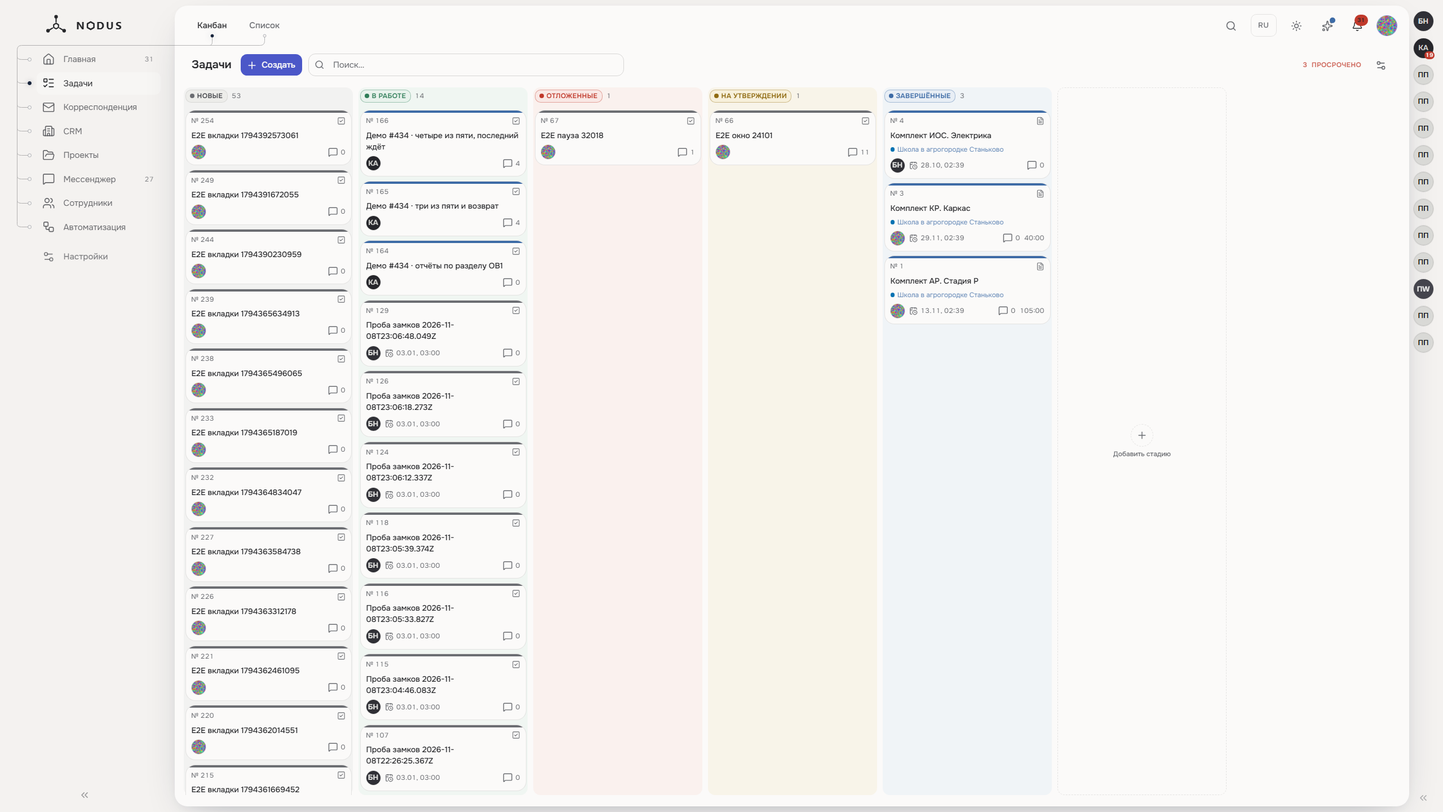
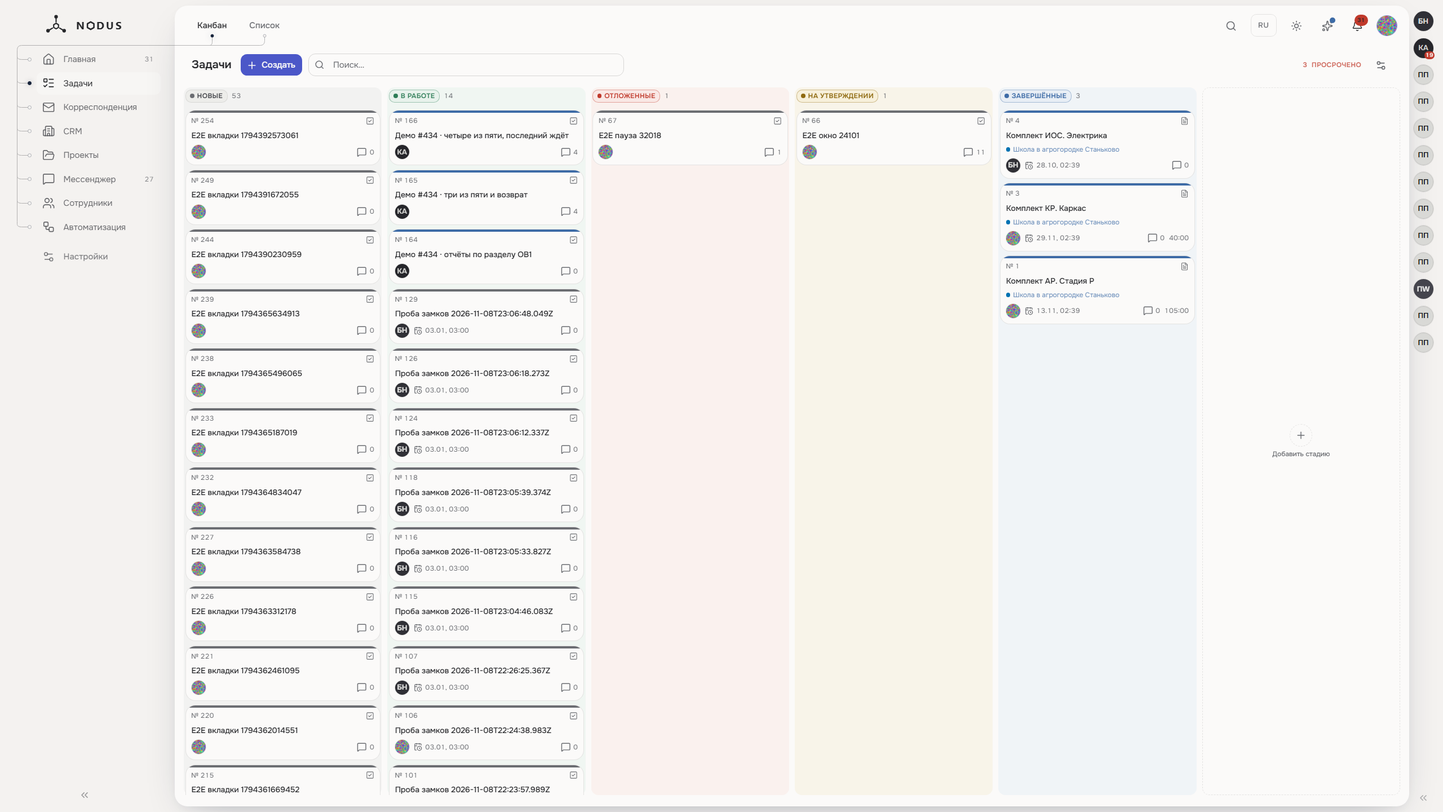
fix(web): канбан — динамическая ширина колонки 240–360px, как в Битриксе (#824)

diff --git a/apps/web/src/shared/ui/board/board-metrics.ts b/apps/web/src/shared/ui/board/board-metrics.ts
@@ -5,30 +5,35 @@
  * (`BoardScroller`, `BoardColumn`, `KanbanSkeleton`, `TaskStageCreate`) —
  * геометрия чинится в одном месте, доски не расходятся.
  *
- * Ширина плитки — ПОЛОСА, как у Битрикса/Trello (minmax-паттерн, MDN
- * «repeat(auto-fill, minmax())»): плитка делит ряд поровну, но не уже
- * 12rem (240) и не шире 15rem (300 экранных px при `--ui-scale: 1.25`,
- * корень 20px). Пока честная доля внутри полосы — ряд заполнен без пустого
- * места; выше потолка — плитки держат 300px, а лишняя ширина уходит под
- * следующий столбец; ниже пола — ряд переполняется и включается
- * горизонтальный edge-scroll (#366), а не сжатие.
+ * Ширина плитки ДИНАМИЧЕСКАЯ, как в Битриксе (замер владельца 12.11.2026 по
+ * двум скриншотам доски из 8 стадий): колонка тянется вместе с окном —
+ * 259px в узком окне 2248 и 369px в развёрнутом на 3439 (шаг 268/378, зазор
+ * ~9). Когда места не хватает до минимума — колонки не сжимаются, а уходят
+ * в горизонтальный скролл. Отсюда ПОЛОСА (minmax-паттерн, MDN
+ * «repeat(auto-fill, minmax())»): плитка делит ряд поровну, но не уже 12rem
+ * (240) и не шире 18rem (360 экранных px при `--ui-scale: 1.25`, корень 20px).
+ * Пока честная доля внутри полосы — ряд заполнен без пустого места; выше
+ * потолка — плитки держат 360 (шире битриксового max не раздуваем); ниже пола
+ * — ряд переполняется и включается edge-scroll (#366), а не сжатие.
  *
  * Арифметика на опорных экранах (бюджет ряда: рейка 15rem + зазор 0.5rem +
  * правая полоса 2.5rem + зазор 0.5rem = 18.5rem; минус внешние отступы
  * 2 × 0.8rem; минус промежутки 0.5rem — те же числа, что в классах):
  * - Full HD 1920×1080 → ряд 77.5rem, контент 75.9rem: 6 плиток — доля
- *   12.23rem (244px) внутри полосы → ровно 6 заполняют ряд, как в Битриксе;
+ *   12.23rem (244px) внутри полосы → ровно 6 заполняют ряд (у Битрикса при
+ *   окне 2248 — 259, у нас рейка шире на ~10px, поэтому низ 240);
  *   7-я — доля 10.4rem ниже пола → прокрутка.
- * - 2560×1440 → контент 107.9rem: 6 плиток — доля 17.6rem выше потолка →
- *   по 300px и ~276px воздуха справа; 7 — 15.0rem заполняют ряд; 8 — 13.05rem
- *   (261px) заполняют ряд; 9 — доля 11.5rem ниже пола → прокрутка. То есть
- *   на 2560 влезает ровно 8 столбцов — как в Битриксе (проверка владельца
- *   12.11.2026 по скриншоту: у него колонка ~285–290px при рейке ~220).
+ * - 2560×1440 → контент 107.9rem: 6 плиток — доля 17.6rem (351px) внутри
+ *   полосы → тянутся и заполняют ряд; 8 плиток — 13.05rem (261px) заполняют;
+ *   9 — 11.5rem ниже пола → прокрутка. Влезает ровно 8 столбцов.
+ * - 3440×1440 → контент 151.9rem: 6 плиток — доля 25.1rem выше потолка →
+ *   по 360px (потолок, как битриксовый max 369); 8 — 18.1rem выше потолка →
+ *   по 360px (ряд почти полон); 12 — 12.2rem заполняют; 13 — ниже пола.
  *
  * Почему не бесконечная резина (баг приёмки #824: `flex-1 basis-0` без
- * потолка): на широком мониторе шесть колонок раздувались до 350–360px —
- * «ужасно широкие». Потолок 300 = ширина колонки Битрикса; пол 240 =
- * читаемая ширина карточки без сжатия.
+ * потолка): на ultrawide 3440 шесть колонок раздувались до ~500px —
+ * «ужасно широкие». Потолок 360 = битриксовый max (369), пол 240 = «6 плиток
+ * на Full HD» и читаемая карточка без сжатия.
  *
  * Значения — в rem: масштаб интерфейса двигает плитку и зазоры вместе (при
  * `--ui-scale: 1.25` они дают 10 / 16 экранных px). Типографика по канону —
@@ -50,13 +55,14 @@ export const BOARD_COLUMN_GROW_CLASS = 'flex-1 basis-0';
 export const BOARD_COLUMN_MIN_CLASS = 'min-w-[12rem]';
 
 /**
- * Потолок ширины плитки: 15rem = 300 экранных px — ширина колонки Битрикса
- * (замер владельца 12.11.2026). Выше потолка ряд не раздувает 6 колонок на
- * широком мониторе; свободное место уходит под 7-й/8-й столбцы.
+ * Потолок ширины плитки: 18rem = 360 экранных px — битриксовый max 369
+ * (замер владельца 12.11.2026: развёрнутое окно 3439 → колонка 369). Выше
+ * потолка колонки не раздуваются на ultrawide; свободное место уходит под
+ * следующие столбцы.
  */
-export const BOARD_COLUMN_MAX_CLASS = 'max-w-[15rem]';
+export const BOARD_COLUMN_MAX_CLASS = 'max-w-[18rem]';
 
-/** Класс плитки: тянется по ряду в полосе 240–300px. */
+/** Класс плитки: тянется по ряду в полосе 240–360px. */
 export const BOARD_COLUMN_CLASS = `${BOARD_COLUMN_GROW_CLASS} ${BOARD_COLUMN_MIN_CLASS} ${BOARD_COLUMN_MAX_CLASS}`;
 
 /** Промежуток между плитками: 0.5rem = 10 экранных px (было 1.25rem/gap-5 = 25). */

diff --git a/apps/web/src/shared/ui/board/board-metrics.test.tsx b/apps/web/src/shared/ui/board/board-metrics.test.tsx
@@ -21,10 +21,11 @@ import { KanbanSkeleton } from './kanban-skeleton.js';
 
 /**
  * Геометрия канбан-доски (#730, исправление #824): ширина плитки — ПОЛОСА
- * 240–300px (minmax-паттерн, как у Битрикса/Trello). Плитка делит ряд
- * поровну, пока доля внутри полосы: на Full HD (1920×1080, развёрнутое меню,
- * корень 20px) 6 плиток заполняют ряд (по ~244px), на 2560 — 8 плиток
- * (~261px); 6 плиток на 2560 держат потолок 300px и не раздуваются; ниже пола
+ * 240–360px, динамическая, как в Битриксе (замер владельца 12.11.2026: колонка
+ * 259px в окне 2248 и 369px в развёрнутом на 3439). Плитка делит ряд поровну,
+ * пока доля внутри полосы: на Full HD 6 плиток заполняют ряд (≈244px), на
+ * 2560 шесть плиток тянутся до ≈351px, восемь делят ряд (≈261px); на ultrawide
+ * 3440 шесть упираются в потолок 360 (не «ужасно широкие»); ниже пола
  * включается горизонтальная прокрутка. Тест держит формулу и следит, чтобы
  * доска, «Добавить стадию» и скелетон брали геометрию из ОДНОГО места.
  */
@@ -91,15 +92,16 @@ afterEach(() => {
   vi.unstubAllGlobals();
 });
 
-describe('board-metrics: полоса ширины 240–300px (#824)', () => {
+describe('board-metrics: полоса ширины 240–360px (#824)', () => {
   it('плитка тянется по ряду, но в полосе min/max — не резина без потолка', () => {
     expect(BOARD_COLUMN_GROW_CLASS).toContain('flex-1');
     expect(BOARD_COLUMN_GROW_CLASS).toContain('basis-0');
     expect(BOARD_COLUMN_MIN_CLASS).toBe('min-w-[12rem]');
-    expect(BOARD_COLUMN_MAX_CLASS).toBe('max-w-[15rem]');
-    // Полоса в экранных px при корне 20px: 240–300 — ширина колонки Битрикса.
+    expect(BOARD_COLUMN_MAX_CLASS).toBe('max-w-[18rem]');
+    // Полоса в экранных px при корне 20px: 240–360 — битриксовый диапазон
+    // (min 259 / max 369 по замерам владельца 12.11.2026).
     expect(boundRem(BOARD_COLUMN_CLASS, 'min-w') * 20).toBe(240);
-    expect(boundRem(BOARD_COLUMN_CLASS, 'max-w') * 20).toBe(300);
+    expect(boundRem(BOARD_COLUMN_CLASS, 'max-w') * 20).toBe(360);
     // Жёсткой ширины (w-[…], shrink-0 + фикс) больше нет: это был баг #824 —
     // на 2560 колонки застывали узкими, когда места хватало на 8.
     expect(BOARD_COLUMN_CLASS).not.toMatch(/(?:^|\s)w-\[/);
@@ -129,14 +131,27 @@ describe('board-metrics: полоса ширины 240–300px (#824)', () => {
     expect(rowUsageRem(9, content)).toBeGreaterThan(rowRem(2560));
   });
 
-  it('2560 с шестью плитками: потолок 300px, колонки не раздуваются', () => {
+  it('2560 с шестью плитками: тянутся (≈351px) и заполняют ряд — ширина динамическая', () => {
     const content = contentRem(2560);
-    // Честная доля 6 плиток на 2560 — ~351px (прежнее «ужасно широко»),
-    // поэтому ширина упирается в потолок.
+    // Битрикс на широком окне тянет колонки (min 259 → max 369): у нас доля
+    // 6 плиток ≈351px внутри полосы, поэтому ряд заполняется, а не застывает.
+    expect(fairShareRem(6, content)).toBeGreaterThan(boundRem(BOARD_COLUMN_CLASS, 'min-w'));
+    expect(fairShareRem(6, content)).toBeLessThan(boundRem(BOARD_COLUMN_CLASS, 'max-w'));
+    expect(rowUsageRem(6, content)).toBeCloseTo(rowRem(2560), 5);
+  });
+
+  it('3440: шесть плиток упираются в потолок 360 — не «ужасно широкие»', () => {
+    const content = contentRem(3440);
+    // Честная доля 6 плиток на ultrawide — ~500px (прежний баг); потолок
+    // держит ширину на битриксовом max, ряд не раздут.
     expect(fairShareRem(6, content)).toBeGreaterThan(boundRem(BOARD_COLUMN_CLASS, 'max-w'));
     expect(widthRem(6, content)).toBe(boundRem(BOARD_COLUMN_CLASS, 'max-w'));
-    // Свободное место остаётся (уйдёт под 7-й/8-й столбцы), но ряд не растянут.
-    expect(rowUsageRem(6, content)).toBeLessThan(rowRem(2560));
+    expect(rowUsageRem(6, content)).toBeLessThan(rowRem(3440));
+    // Восемь плиток на 3440 — тоже потолок, но ряд почти полон; двенадцать
+    // влезают и делят ряд, тринадцатая — прокрутка.
+    expect(rowUsageRem(8, content)).toBeGreaterThan(rowRem(3440) * 0.95);
+    expect(rowUsageRem(12, content)).toBeCloseTo(rowRem(3440), 5);
+    expect(rowUsageRem(13, content)).toBeGreaterThan(rowRem(3440));
   });
 
   it('промежуток 8–12 px, внешние отступы 16 px', () => {

diff --git a/apps/web/src/features/tasks/components/task-stage-create.tsx b/apps/web/src/features/tasks/components/task-stage-create.tsx
@@ -11,7 +11,7 @@ import { stageColorOrder, stageTone } from '../../../shared/ui/board/stage-tone.
 /**
  * Контур плитки «Добавить стадию» — outline со смещением ВНУТРЬ, а не border:
  * отступы и пунктир живут внутренним блоком, сама плитка несёт только общий
- * `BOARD_COLUMN_CLASS` с полосой ширины 240–300px (#824) — контур не участвует
+ * `BOARD_COLUMN_CLASS` с полосой ширины 240–360px (#824) — контур не участвует
  * в раскладке и не отнимает ширину у содержимого. История (#730): при
  * flex-basis border+padding добавлялись сверх доли, и плитка выходила на 22px
  * шире колонки (замер владельца на :4173: колонки 241px, плитка 263px).
@@ -25,7 +25,7 @@ const TILE_ICON_BUTTON_CLASS =
 
 /** Создание личной колонки «Моего плана» — ПЛИТКА доски, а не пилюля
  *  (уточнение владельца 10.11.2026): та же ширина и высота, что у колонок
- *  стадий (`BOARD_COLUMN_CLASS` — полоса 240–300px, #824), пунктирный контур,
+ *  стадий (`BOARD_COLUMN_CLASS` — полоса 240–360px, #824), пунктирный контур,
  *  содержимое по центру ВНУТРЕННИМ блоком (плитка сама не несёт
  *  padding/border). Она занимает шестое место в ряду — поэтому на опорном
  *  Full HD при 5 стадиях ряд заполнен ровно (6 плиток), а при 6+ включается

diff --git a/.agents/skills/nodus-ui-style/SKILL.md b/.agents/skills/nodus-ui-style/SKILL.md
@@ -46,7 +46,7 @@ description: "Канон UI Nodus — тема «Инструмент» (node-ba
 - **Оверлей со списком-пикером (диалог выбора, поповер с фильтром/поиском) — ФИКСИРОВАННАЯ высота зоны списка:** контейнер НЕ меняет габарит при фильтрации, поиске и смене шага — список занимает зарезервированную высоту (`flex-1 min-h-0` внутри диалога фикс-высоты либо явное `h-*`), пустой результат — заглушка ВНУТРИ той же высоты (research 24.09: wix/react-native-ui-lib#3493 — «make it take the entire height that is left so this way the height will not change when the content changes so theres no jump»; primeng#17372 — прыжки панели при фильтре признаны багом; вердикт владельца 24.09: «окно не должно прыгать туда-сюда»). Прыгающий по данным габарит окна = баг.
 - **Выдвижные поверхности — ВСЕГДА плавно, включая ПЕРВОЕ открытие после перезагрузки страницы (закон; баг-вердикты владельца 15.09.2026 — панель беседы, навигатор ветки, окно треда; механика — gotchas):** обёртка панели/окна монтируется СРАЗУ и ПОСТОЯННО в покое (`w-0`/translate) — открытие = flip состояния СУЩЕСТВУЮЩЕГО элемента, transition идёт с первого кадра даже после Ctrl+R; НЕ монтировать обёртку в момент открытия: свежий элемент рождается в целевом состоянии, before-состояния нет — transition пропускается (рывок ровно один раз, потом «само чинится»); контент — лениво на первом открытии и далее остаётся (скролл/фокус не теряются, маунт данных не платит в кадрах анимации); когда обёртку держать нельзя — `shared/ui/use-frame-ready.ts` (double rAF), одноразовые mount-анимации (тосты, диалоги) — CSS `@starting-style` (Baseline 2024). Применено везде: панель беседы (все хосты), «О задаче», окно треда (канал в мессенджере и карточке проекта — один компонент), навигатор ветки. Новая выдвижная поверхность — обязательная проба: первое открытие после Ctrl+R, замер ширины покадрово.
 - **Холст схем (#378 ред. 2, ADR-0022 — рефы Jira workflow editor / Яндекс Трекер; полный канон — `references/flow-canvas.md`):** свободная слоевая авторасстановка (`shared/flow/route-layout.ts`) БЕЗ колонок-контейнеров; РАСКЛАДКА ОБЩАЯ И НА СЕРВЕРЕ (`workflows.layout`: позиции, точки стрелок, доля подписи, глубина обхода, место метки «Любой статус») — «что видишь — то и стоит»: первая правка фиксирует видимую картинку целиком, дальше двигается только то, что тащат (чужие статусы, точки и стрелки не перестраиваются; авторасстановка — только «Упорядочить»); расстановка — оформление, сохраняется САМА без новой версии (`PUT .../layout`), черновик/публикация — только структура маршрута. Узел статуса 208×52; 12 точек подключения (Loose, переподключение концов) — занятые кружки видны всегда (стрелка упирается в кружок), свободные в правке приглушены; наконечники — свои SVG-маркеры (`userSpaceOnUse`, токен `--edge-solid`), встроенный ArrowClosed запрещён; подпись кнопки — чип НА СВОЕЙ стрелке в доле t, тянется вдоль, ставится без наезда на узлы и подписи; слой подписей над всеми линиями (выделенное ребро — последним в массиве, НЕ z-index'ом); «из любого статуса» — переключатель в панели статуса + пилюля «Любой статус» со стрелкой; старт «Создание задачи» на линии центра начального. Окно редактора — сплит как мессенджер: бар h-14 с линией, правая панель — полновысотная колонка (шапка продолжает линию бара), выезжает и СУЖАЕТ холст; вписывание один раз — граф не дёргается. Масштаб и отмена (классические стрелки) — слева внизу, атрибуция — справа внизу с отступом.
-- **Личный канбан «Канбан» — личная ось стадий (ADR-0008):** колонки = стадии личной схемы пользователя (не глобальной!); шапка — цветной чип стадии (`shared/ui/board/stage-tone.ts`: палитра neutral/info/success/warning/danger/violet/teal/orange/pink/cyan на токенах темы) + счётчик + «+» быстрого создания задачи в колонку (инлайн-инпут в топе колонки) + меню «⋯» (переименовать inline / цвет / удалить — единственную нельзя, задачи переезжают в первую колонку того же состояния); создание стадии — КОМПАКТНАЯ инлайн-форма в конце ряда («точка цвета + название», Enter/Esc — референс ClickUp «Add group»; никаких больших панелей настроек); тело колонки — читаемая пастель тона (`bg-*-soft/40`, вердикт владельца). Привязка колонки к системному состоянию живёт в МОДЕЛИ (контракты/моки готовы к workflow-схемам), в UI до MVP не спрашивается (вердикт владельца: автоматизация — после MVP, через редактор схем). DnD по личной оси (`personalAxis` в kanban-board.ts), персист `personalStageId`. **Механика доски — ЕДИНЫЙ движок `shared/ui/board/use-kanban-board.ts` + `KanbanSkeleton` + ряд колонок `BoardScroller` (прокрутка подводом к краю, drag-to-pan, autoScroll только доски — #366) (аудит #45):** борд-состояние, фиды колонок через React Query (`tasksKeys.kanban(scope)`, инвалидации мутаций переносят доску), sentinel-подгрузка, dnd-жизнь (живая сортировка, анти-осциллятор, Esc-откат снапшотом); фича — колонка/карточка/конфиг оси/фида/мутаций и экстры (CRUD колонок, quick-add, countDelta). 6-й модуль с доской = конфиг движка, не копия. **Плотность доски (#730, вердикт владельца 10.11.2026): узкий вид ЕДИНСТВЕННЫЙ — переключателя «Компактно/Просторно» нет и не будет.** Геометрия — `shared/ui/board/board-metrics.ts` (ширина плитки — ПОЛОСА 240–300px, minmax-паттерн MDN/Трелло: `flex-1 basis-0 min-w-[12rem] max-w-[15rem]`, при масштабе 1.25 это 240–300 экранных px; промежуток 0.5rem = 10 экранных px, внешние отступы 0.8rem = 16): плитка делит ряд поровну, пока доля внутри полосы — на Full HD 1920×1080 с развёрнутым левым меню 6 плиток заполняют ряд ровно (≈244px), на 2560 влезают 8 (≈261px); выше потолка колонки не раздуваются (6 плиток на 2560 — по 300px, как ширина колонки Битрикса), ниже пола не сжимаются — включается горизонтальный edge-scroll #366 (баг #824: резина без потолка давала «шесть ужасно широких» колонок). **«Добавить стадию» — такая же плитка ряда** (пунктир, содержимое по центру), а не пилюля: она и есть шестая. Карточка — одна мета-строка внизу (исполнитель · срок · приоритет, справа обсуждение и время), название максимум в две строки, «Без срока» и обычный приоритет в узкой колонке не печатаются.
+- **Личный канбан «Канбан» — личная ось стадий (ADR-0008):** колонки = стадии личной схемы пользователя (не глобальной!); шапка — цветной чип стадии (`shared/ui/board/stage-tone.ts`: палитра neutral/info/success/warning/danger/violet/teal/orange/pink/cyan на токенах темы) + счётчик + «+» быстрого создания задачи в колонку (инлайн-инпут в топе колонки) + меню «⋯» (переименовать inline / цвет / удалить — единственную нельзя, задачи переезжают в первую колонку того же состояния); создание стадии — КОМПАКТНАЯ инлайн-форма в конце ряда («точка цвета + название», Enter/Esc — референс ClickUp «Add group»; никаких больших панелей настроек); тело колонки — читаемая пастель тона (`bg-*-soft/40`, вердикт владельца). Привязка колонки к системному состоянию живёт в МОДЕЛИ (контракты/моки готовы к workflow-схемам), в UI до MVP не спрашивается (вердикт владельца: автоматизация — после MVP, через редактор схем). DnD по личной оси (`personalAxis` в kanban-board.ts), персист `personalStageId`. **Механика доски — ЕДИНЫЙ движок `shared/ui/board/use-kanban-board.ts` + `KanbanSkeleton` + ряд колонок `BoardScroller` (прокрутка подводом к краю, drag-to-pan, autoScroll только доски — #366) (аудит #45):** борд-состояние, фиды колонок через React Query (`tasksKeys.kanban(scope)`, инвалидации мутаций переносят доску), sentinel-подгрузка, dnd-жизнь (живая сортировка, анти-осциллятор, Esc-откат снапшотом); фича — колонка/карточка/конфиг оси/фида/мутаций и экстры (CRUD колонок, quick-add, countDelta). 6-й модуль с доской = конфиг движка, не копия. **Плотность доски (#730, вердикт владельца 10.11.2026): узкий вид ЕДИНСТВЕННЫЙ — переключателя «Компактно/Просторно» нет и не будет.** Геометрия — `shared/ui/board/board-metrics.ts` (ширина плитки ДИНАМИЧЕСКАЯ, полоса 240–360px — как в Битриксе: колонка 259px в узком окне и 369px в развёрнутом на 3440, замер владельца 12.11.2026; `flex-1 basis-0 min-w-[12rem] max-w-[18rem]`, при масштабе 1.25 это 240–360 экранных px; промежуток 0.5rem = 10 экранных px, внешние отступы 0.8rem = 16): плитка делит ряд поровну, пока доля внутри полосы — на Full HD 1920×1080 с развёрнутым левым меню 6 плиток заполняют ряд ровно (≈244px), на 2560 шесть тянутся до ≈351px и восемь делят ряд (≈261px, влезает ровно 8), на ultrawide 3440 шесть упираются в потолок 360 (прежняя резина без потолка раздувала их до ≈500 — баг #824), ниже пола не сжимаются — включается горизонтальный edge-scroll #366. **«Добавить стадию» — такая же плитка ряда** (пунктир, содержимое по центру), а не пилюля: она и есть шестая. Карточка — одна мета-строка внизу (исполнитель · срок · приоритет, справа обсуждение и время), название максимум в две строки, «Без срока» и обычный приоритет в узкой колонке не печатаются.
 - **Законы чата (вердикт владельца, раунд 3; геометрия панелей — Битрикс24, вердикт 15.09.2026):** где чат — там ПРАВАЯ панель с файлами/ссылками беседы (`shared/chat/chat-side-panel.tsx`): панель — ПОЛНОВЫСОТНАЯ колонка-сиблинг, занимающая ВЕРХНИЙ БАР хоста тоже; её верхняя строка (высотой в бар хоста, `headerClass`: мессенджер — default h-14, сотрудник h-10, проект h-10, задача h-10 (полоса вкладок правой зоны после редизайна 04.11.2026)) = название СЛЕВА («О чате»/«О канале»/«О проекте») + крестик У КРАЯ справа, border-b продолжает линию бара, внутренних перегородок нет; тоггл (`ChatPanelToggle`) остаётся в баре хоста и при открытии уезжает влево; ПЕРВОЕ открытие панели — ПЛАВНОЕ: обёртка монтируется СРАЗУ и ПОСТОЯННО (`w-0`), класс раскрытия — ПОСЛЕ двух кадров (`use-frame-ready`, иначе рывок свежего элемента — баг-вердикт 15.09.2026, gotchas), контент — ЛЕНИВО на первом открытии и далее остаётся (приём обёртки «О задаче»: первый тоггл не платит маунтом панели/данных в кадрах width-анимации — «дёргается ровно один раз», баг-вердикт 15.09.2026; левая зона стабильна покадрово); панель занимает ширину ЗА СЧЁТ ЧАТА (чат сужается на её ширину — левая зона НЕ двигается, сотрудник тоже, вердикт 15.09.2026; easing у width-анимаций панели и чата ОДИН — иначе сумма плывёт и зона осциллирует); ШАПКИ У САМОГО ЧАТА НЕТ (никаких «чёрных областей» с названием канала/именем собеседника — вердикт); ПРАВИЛО ОДНОГО ПРОХОДА: смена геометрии панелей/композеров применяется ВСЕМ хостам одновременно — мессенджер, карточки сотрудника/проекта/задачи (урок 15.09.2026: «О задаче» забыли — владелец: «у нас всё должно изменяться одновременно»); лента ≥ 360px при открытой панели — минимум `MIN_FEED_WITH_PANEL`; при открытом ОКНЕ ТРЕДА минимум ленты 320 (`MIN_FEED_W`, #42), при панели и окне одновременно пол ленты 320; колонка ≥ 660 (`MIN_COLUMN_WITH_PANEL`) — тогда выталкивает левую зону; действия над сообщением — КОНТЕКСТНОЕ МЕНЮ ТОЛЬКО по правому клику (`shared/chat/message-menu.tsx` на Radix ContextMenu: меню у курсора, кламп в viewport примитивом; реестр-заготовка под бэкенд; «Редактировать»/«Удалить» — только свои; кнопок «⋯» на сообщении НЕТ); пустые состояния — канонический `Empty` (пунктирных рамок нет; drop-зона канбана — исключение, affordance переноса); перегородка чата в карточках тянется мышью С ПАМЯТЬЮ (`shared/ui/use-chat-width.ts` — единая память на все карточки `nodus-card-chat-w-v2`, дефолт 680px, MIN_W 420, при открытой панели «О задаче» или навигаторе ветки пол чата карточки задачи 280 = `MIN_CHAT_WITH_PANEL`; drag императивный — gotchas); ленты сообщений — СЕРИЯМИ одного автора (`shared/chat/message-groups.ts`, разрыв только по смене автора/дня): имя — чужое и только первое в серии (в личных имён нет), ПОЛУЖИРНОЕ и персонального цвета автора (`personTone(id)`, палитра `--name-1..7`, #180 — единый тон во всех хостах: пузырь/пост/надгробие), аватар — один на серию, у ПОСЛЕДНЕГО, и он ЛИПКИЙ (#164, вердикт 30.09): серия — grid «колонка аватара + пузыри» общей компонентой `shared/chat/message-run.tsx` (лента беседы, окно треда, обсуждение задачи), аватар — отдельный sticky-элемент серии (`grid-row: 1/N+1, align-self: end, position: sticky; bottom-8px`) — при прокрутке высокой серии/простыни прижат к нижней кромке ленты над композером, у конца серии — обычное место; чистый CSS без JS-замеров (антипример coder#27673); аватар у КАЖДОЙ серии — свои и чужие (баг-урок 30.09 «моя аватарка пропала»), «По обе стороны» — своя серия зеркалится; будущая виртуализация ленты — только оконная на распорках (react-virtuoso-стиль): absolute-строки (react-window) ломают grid-поток и sticky; колонка аватара зарезервирована всегда, пузыри серии на одной вертикали, ритм 2px внутри серии / 12px между (чаты; посты канала — 6px внутри серии: `spacing="feed"` в message-run.tsx, вердикт 01.10 #175), дата-чип при смене дня; пузыри чата БЕЗ рамки (вариант `card` Bubble-примитива на токенах `bubble-in`/`bubble-out`, канон Telegram #127: контур ступенью тона поверх chat-zone); мета-строка (глиф пина у закреплённых, «изменено», время с галочками sent/read у своих) — ПОД текстом мелким кеглем, ПРИЖАТА СПРАВА облака, реакции — слева в той же строке (модель Telegram; вердикт 24.09: время НЕ сбоку текста, а снизу справа; «изменено» и пин не расширяют пузырь; реакции — нижний левый угол, задел линии реакций); тон меты — по ПОВЕРХНОСТИ (#127): на залитом своём пузыре `bubble-out-accent` (в тон заливке, как время/галочки Telegram), на чужом пузыре и карточке поста — `muted-foreground`; вложения — ВНУТРЬ пузыря (расширяют высоту); хвостик у последнего пузыря серии — ОДНА заливка SVG (`shared/chat/bubble-tail.tsx`): силуэт сам несёт вогнутую кромку и закруглённый носик к низу аватарки; АНТИПРИМЕР: CSS-бордюр пузыря + SVG-обводка хвоста — разный антиалиасинг двух движков рисования = «полутонкие линии», расдвоенные кончики и швы на стыке (разбор вердиктов 14.09.2026); композер автофокусится при входе в чат (autoFocus, ремоунт по conversationId); вложения — грамматика Битрикс24 (`shared/chat/attachments.tsx`): схема `messageAttachment` с `kind`/`url`/`thumbnailUrl`/`width`/`height` (задел под загрузку в MinIO и лайтбокс), порядок в пузыре и посте СВЕРХУ: галерея изображений (`attachment-gallery.tsx`: 1 — крупное, 2–3 — ряд равновысотных плиток, 4+ — ряды по 3; бокс резервируется по width/height — лента без сдвига; `onOpen` — точка будущего лайтбокса) → чипы файлов (`attachment-file.tsx` на примитиве `Attachment` surface=flat: лежат НА тоне поверхности пузыря/поста БЕЗ собственной заливки, цветная иконка типа `FileTypeIcon` (токены `--file-*`, референс Битрикс24), имя, размер, скачивание; тон вторичного текста — от `messageSurface`; #144, вердикт владельца 29.09.2026 «как в Битриксе») → текст → нижняя строка; ОКНО ОТПРАВКИ ВЛОЖЕНИЙ (`attach-send-dialog.tsx` — глобальный dialog-хост, #144; референсы Telegram/Bitrix): ЛЮБОЕ прикрепление (скрепка/drop/paste) открывает окно «Выбрано: N файл(а/ов)» — строки с drag-точками сортировки (СВОЙ pointer-drag без dnd-kit: PointerSensor dnd-kit гасит каретку полей на время drag — убивал супер-курсор подписи), превью картинки/иконкой типа, именем, размером, крестиком удаления, прогрессом загрузки и повтором при ошибке; крестик окна ВЕРХНЕГО угла НЕ ставится (отмена — кнопкой «Отмена», вердикт 29.09); «Добавить» — ещё файлы; подпись — ОТДЕЛЬНОЕ поле окна (стор `useAttachSendDialog.caption`, канон Telegram, вердикт 29.09.2026: при открытии текст композера переезжает в подпись и НЕ дублируется онлайн в чат; отмена — подпись возвращается в композер и штатно становится черновиком; отправка — уходит текстом сообщения; Enter отправляет, Shift/Ctrl+Enter — перенос, как в композере); футер БЕЗ разделителей: «Добавить»/«Отмена»/«Отправить» (отправка — через реестр submit-функций хостов `submit-registry.ts` — оптимистичность/reply/threadRootId не дублируются); «Отправить» заблокирована, пока есть загрузки/ошибки; инвариант: draft.attachments непуст ⟺ окно открыто (трей у строки ввода УШЁЛ); супер-курсор: при открытии фокус на подписи, каретка живёт в подписи всё время (blur в никуда/на кнопки окна — возврат, гард `composer-focus.stealFocus` не пускает композер), после закрытия — возврат в композер; drag-сортировка — ЖИВОЙ реордер (порядок меняется в DOM во время drag, без transform и autoScroll — фантомного скролла нет), тянущая строка — мягкий тон БЕЗ рамки; превью картинок в лайтбоксе поверх окна, Esc гасит только лайтбокс; карточка поста канала: посты сериями одного автора/дня КАК В ЧАТАХ — аватар один на серию (run-grid слева, липкий), имя — у первого ЧУЖОГО поста серии, свои посты БЕЗ имени (канон чатов, #180), у остальных — sr-only; полоса «N ответов»+«Обсудить» у КАЖДОГО поста (пост самостоятельный тред), вложения выше текста, реакции+время строкой (#164; надгробие с живым тредом — строка «Сообщение удалено» + полоса «Обсудить», правило #163); имя цитируемого в ответах/пересылках/баре композера — ТОТ ЖЕ персональный цвет автора (#180); плотность #181: поля пузыря/карточки ЕДИНЫЕ 10px (заменяет канон #96 «6px над именем»), имя→контент 2px, межстрочный текста leading-snug (1.375, единая точка MessageText), строки пузыря чата gap 2px; поля пузырей И карточек постов — ЕДИНЫЕ 10px по периметру (px-2.5=pt-2.5, серия вердиктов 01.10 #181: 6 — мало, 12 — огромно, единообразие), лента постов — общий с чатами MessageScroller-стек (стрелка «вниз», автодогон чужих, pre-paint компенсация реакций; #175); «вечный курсор» композера (`composer-focus.ts`, канон Телеграм, вердикт 14.09.2026): пока открыт чат/канал/тред — каретка в его композере, обычные клики по UI возвращают её (исключения: клавиатурная навигация, выделение текста и ОТКРЫТЫЙ ОВЕРЛЕЙ-СЛОЙ — диалог/поповер/меню владеют фокусом, пока слой открыт, иначе DismissableLayer закроет панель по focusOutside, #71/gotchas), фокус передаётся вручную другому композеру (закрыл тред — курсор снова в ленте; StrictMode-цикл mount→cleanup→mount переживает только register с собственным focus — трассировка focus/focusin); композер (`chat-composer.tsx`) — ЕДИНЫЙ для чатов, каналов, тредов и обсуждения задач: бар в покое `min-h-16` = канон нижних баров карточек, растёт ВВЕРХ (py-2 + рост поля, лента ужимается); композер — «островок» (`rounded-2xl bg-card shadow-sm`) парит над тоном chat-zone БЕЗ внешнего контура и разделителя (вердикт 24.09: модель Bitrix24/Telegram — владелец: бары режимов не должны растягивать кнопку отправки): строки островка — бар ответа/правки, бар пересылки, строка ввода (трея вложений НЕТ: прикреплённые файлы живут в окне отправки, #144); скрепка-меню со ЗНАЧКАМИ («Фото или видео»/«Файл»/«Опрос»-заготовка, канон tdesktop) слева, textarea середина (rows=1 + field-sizing, авторост до `max-h-[45vh]` — «чтобы не появлялся вертикальный скролл», дальше скролл внутри поля; черновик на сотни строк ленту не вытесняет), смайл и мик/отправка справа; ОТПРАВКА — ghost-кнопка с глифом `SendHexIcon` (`shared/ui/send-hex-icon.tsx`) БЕЗ заливки, в семье смайл/мик, цветом `text-info` — ЕДИНЫЙ токен акцента чат-действий (закреп/цитаты/бар пересылки; вердикт 24.09: «нравится цвет цитат и закрепов», смена оттенка = одна строка темы), ВНУТРИ строки ввода, видна ТОЛЬКО при тексте/вложениях/баре пересылки (пусто — микрофон-заглушка, модель Telegram: ввод голоса и текста взаимоисключащи), в правке — галка; мик и отправка — ОДИН габарит ghost size-8 (переключение не двигает строку); строка ввода всегда ОДНОЙ высоты (бары растут выше неё); меню скрепки — радиус КАК у островка (rounded-2xl), левый край по скруглению островка (alignOffset), низ ВЫШЕ островка (sideOffset от верха островка); ВЫРАВНИВАНИЕ иконок (grown-тоггл — ResizeObserver по высоте textarea против базовой строки): в покое (одна строка) ВСЕ иконки по ЦЕНТРУ высоты строки (баг-вердикт владельца 15.09.2026: скрепка из-за self-start сидела выше центра), при росте поля — иконки `self-end` внизу (хореография Битрикс24); контур поля при активном курсоре НЕ подсвечивается; смайл/микрофон/опрос — ЗАГЛУШКИ до своих issues; выделение текста ВНУТРИ сообщения — баббл-цитата над выделением (круглая кнопка с кавычками над селекцией, модель Bitrix24, `selection-quote-bubble.tsx`): клик = ответ с частичной цитатой выделенного; сель-режим ленты: островок ПЛАВНО сужается в узкое облако батч-команд по центру (счётчик, «Переслать» ТЕКСТОМ — самая популярная команда очевидна, корзина/копия/× значками) и так же плавно расширяется обратно СИММЕТРИЧНО от центра (mx-auto держится всю фазу выхода; батч-тулбар живёт внутри островка до конца расширения, затем островок в полной ширине становится вводом — без пустой фазы и развёртки «слева направо», баг-вердикт раунда 4); пересылка — ОДИН получатель за раз (массовой рассылки НЕТ, вердикт 24.09: «несколько сообщений одному — да, сообщение нескольким — нет»): пикер с чипами-фильтрами категорий (реф Bitrix24) и поиском по всем беседам, канал — второй уровень «куда поместить» (лента постом/тред); после выбора диалог закрывается и получатель получает БАР пересылки над полем (модель Bitrix24): текст поля = комментарий, уходит вместе с блоком на отправке; подзаголовок беседы НЕ дублирует название проекта/номер задачи (они уже в заголовке — `conversationSubtitle`); ПКМ по беседе в списке — меню модели Битрикс24 (`conversation-menu.tsx`): «Посмотреть позже»/закрепить/звук/скрыть, состояния — глифами на строке (булавка, колокол, часы), закреплённые сверху списка, snoozed прячет счётчик непрочитанных до нового сообщения; лайтбокс галереи (`image-lightbox.tsx`): портал, Esc/задник/стрелки, счётчик «N / M», возврат фокуса на плитку.
 - **Тред — ПОЛНОВЫСОТНОЕ ОКНО рядом с лентой** (#42 + вердикт 15.09.2026, Slack-паттерн по research slack.design «Weaving Threads»: тред — отдельная панель, не оверлей и не замена ленты): канал = ПОЛНОВЫСОТНЫЕ КОЛОНКИ `shared/chat/channel-view.tsx` — лента постов слева + окно треда справа со своим композером (+ панель беседы третьей колонкой); бары колонок стоят НА ОДНОЙ ЛИНИИ (бар треда — `threadBarClass`: мессенджер h-14, проект h-10 — в высоту баров хоста; «Обсуждение N» СЛЕВА, крестик у ПРАВОГО КРАЯ колонки — закон колонки, как у панели) и ОДНИМ ТОНОМ (в карточках — `bg-card`: зона чата темнее только НИЖЕ бара, баг-вердикт 15.09.2026 «бар другого цвета»); бар беседы живёт В КОЛОНКЕ ЛЕНТЫ (`header` канала) и сжимается вместе с ней — тоггл панели на правом краю ЛЕНТЫ; перегородка — ручка w-3 с памятью `nodus-thread-w-v2` (`shared/ui/use-pane-width.ts`, императивный drag); открытие треда — вталкивание шириной (transition-[width], приём панели «О задаче»); transition — ТОЛЬКО на toggle открытия/закрытия: при resize контейнера ИЗВНЕ (drag колонки чата, рельса, окно) окно следует 1:1 — гейт containerMoving (RO + settle), иначе «гармошка»/пружина ленты (issue #65, gotchas); зона канала < 640px (лента 320 + тред 320) — фолбэк drill-down с «К ленте»; посты ленты сжимаются с лентой, перегородка ходит влево до минимума ленты 320 (вердикт владельца); **СВЯЗИ «пост → тред» НЕТ** (вердикт 15.09.2026): контур — ТОЛЬКО для ПОСТОЯННОЙ структуры (рейка, вкладки, рамка), движущийся контент связями НЕ соединяется (скролл/подгрузка ломали живой замер), бары — запретная зона для связей; семантику «к какому посту тред» несёт корневой пост внутри окна (сверху, за штриховой линией — как в Slack); панель беседы — ОДНА на беседу (хостится контейнером), НЕ дублируется на зону треда (research OpenClaw: несколько rail'ов съедают ленту); при открытом треде — области «Вся беседа / Этот тред» (канон пресетов 13px/bg-muted/40/bg-accent).
 - **Карточки проекта/сотрудника/задачи — анатомия карточки задачи (раунд 3; проект — ред. 07.11.2026, задача — ред. 04.11.2026):** сотрудник — левая зона = ВКЛАДКИ на всю высоту (Профиль/Задачи/Проекты — журналы ПОЛНОЦЕННЫЕ на shared-реестрах, «модули не отличаются»), правая колонка — личный диалог find-or-create. **Проект — НЕ так:** слева ВСЕГДА панель «О проекте» без вкладки (идентичность, описание, паспорт, атрибуты) с нижним баром действий h-16 (как в задаче/письме: «Редактировать проект» + «⋯», кнопки НЕ в воздухе сверху), справа рабочая зона с полосой вкладок «Задачи / Канал / Участники / История» + «+» (личный набор; «Чат» — с пространством проекта #456); полоса вкладок начинается ОТ ГРАНИЦЫ левой панели и едет за перегородкой (useSplitWidth, память), второго бара под вкладками НЕТ (тоггл панели «О канале» — на самой полосе), вкладки монтируются при первом показе и живут скрытыми (invisible+inert). **Задача и письмо — как проект:** полосы цепочки НЕТ (доменный граф связей не показывается), вкладки правой зоны — на верхнем уровне ОБЩЕЙ полосы `shared/ui/entity-card/card-tab-strip.tsx` (h-10, `bg-card`, активная `border-port`; горизонтальный скролл — оверлейный, нативный скрыт: вкладки не подпрыгивают), слева — ОБЩАЯ колонка данных `shared/ui/entity-card/card-data-column.tsx` (центрируется, на узкой зоне 28rem; кнопка ветки задачи — в фиксированном левом отступе, не сдвигает описание). Панели беседы у всех карточек — полновысотные сиблинги с шапкой h-10, продолжающей полосу вкладок; при открытии панель занимает ширину за счёт рабочей зоны, вкладки скрываются в оверлейный скролл.

diff --git a/apps/web/src/features/tasks/README.md b/apps/web/src/features/tasks/README.md
@@ -10,16 +10,18 @@
 проекта.
 
 Доска плотная и одна на все доски (#730): геометрия — `shared/ui/board/board-metrics.ts`,
-поэтому «Мой план» и канбан проекта в колонках одинаковы. Ширина плитки — полоса
-240–300px (minmax-паттерн, как у Битрикса/Trello): плитка делит ряд поровну, пока
-доля внутри полосы, поэтому на опорном Full HD 6 плиток (5 стадий + «Добавить
-стадию») заполняют ряд ровно, а на 2560 влезают 8; выше 300px колонки не
-раздуваются (прежняя резина давала 350+ на широком мониторе — #824), ниже 240px
-не сжимаются — включается edge-scroll (#366). «Добавить стадию» — такая же плитка,
-как колонка стадии. Карточка узкая: название в две строки, внизу ОДНА мета-строка
-— исполнитель, срок, приоритет (флажок у высокого/срочного), справа обсуждение и
-затраченное время; «Без срока» и обычный приоритет не печатаются. Переключателя
-плотности нет — прямое указание владельца 10.11.2026.
+поэтому «Мой план» и канбан проекта в колонках одинаковы. Ширина плитки динамическая,
+как в Битриксе (замер 12.11.2026: колонка 259px в узком окне и 369px в развёрнутом
+на 3440): полоса 240–360px — плитка делит ряд поровну, пока доля внутри полосы, и
+упирается в потолок на ultrawide. На опорном Full HD 6 плиток (5 стадий + «Добавить
+стадию») заполняют ряд ровно; на 2560 шесть тянутся до ≈351px, а восемь делят ряд
+(влезает ровно 8 — как в Битриксе); на 3440 шесть держат 360px (прежняя резина
+раздувала их до ≈500 — баг #824), ниже 240px не сжимаются — включается edge-scroll
+(#366). «Добавить стадию» — такая же плитка, как колонка стадии. Карточка узкая:
+название в две строки, внизу ОДНА мета-строка — исполнитель, срок, приоритет (флажок
+у высокого/срочного), справа обсуждение и затраченное время; «Без срока» и обычный
+приоритет не печатаются. Переключателя плотности нет — прямое указание владельца
+10.11.2026.
 
 **Бэкенд (#37) и веб на живом API (#311):** API модуля — `apps/api/src/modules/tasks/README.md` (маршруты с гейтами ADR-0020, видимость, личная доска «Канбан», время, участники). Экраны ходят в эндпоинты #37 (подробности — секция «Живой API (#311)» ниже): бар переходов из `GET /tasks/:id/transitions`, выбор типа и `access`-права карточки; моки MSW (`VITE_API_MOCK` с доменом `tasks`) — только демо и тесты; обсуждение задачи — обычная беседа мессенджера `type='task'` (#252): `task-discussion.tsx` = `ConversationPane` по `useTaskConversation` (`GET /chat/conversations/by-task/:taskId`, find-or-create; не участник и не решающий шага — 404; решающий читает беседу read-only (#433) и подсказка «для участников»); параллельного конвейера `/tasks/:id/messages` больше нет. Моки держат форму контракта (`type`, `access`, `result`, создание без колонки — начальная стадия).
 
